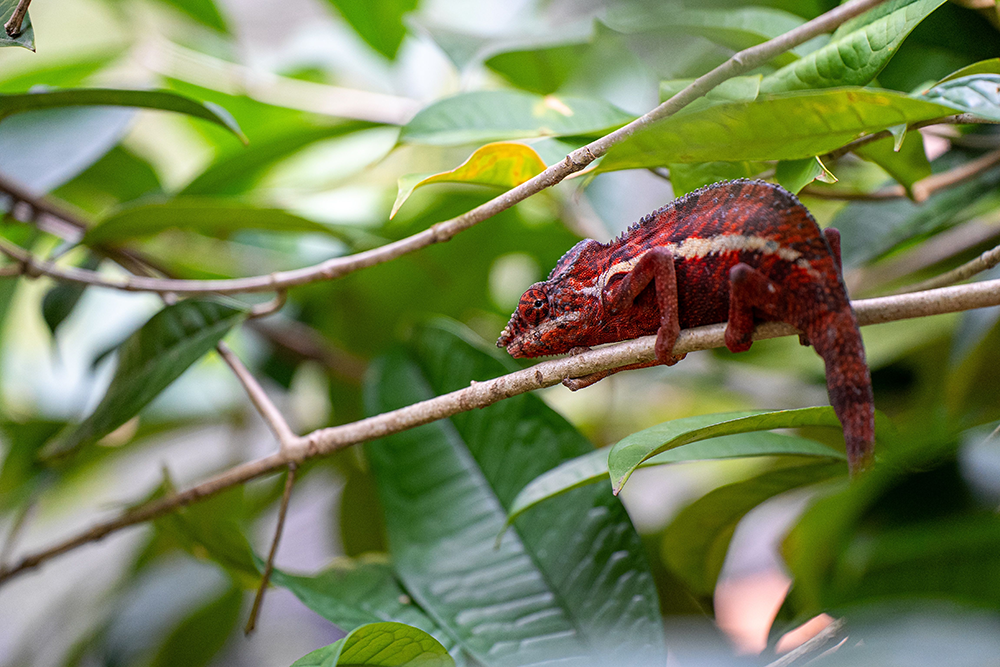
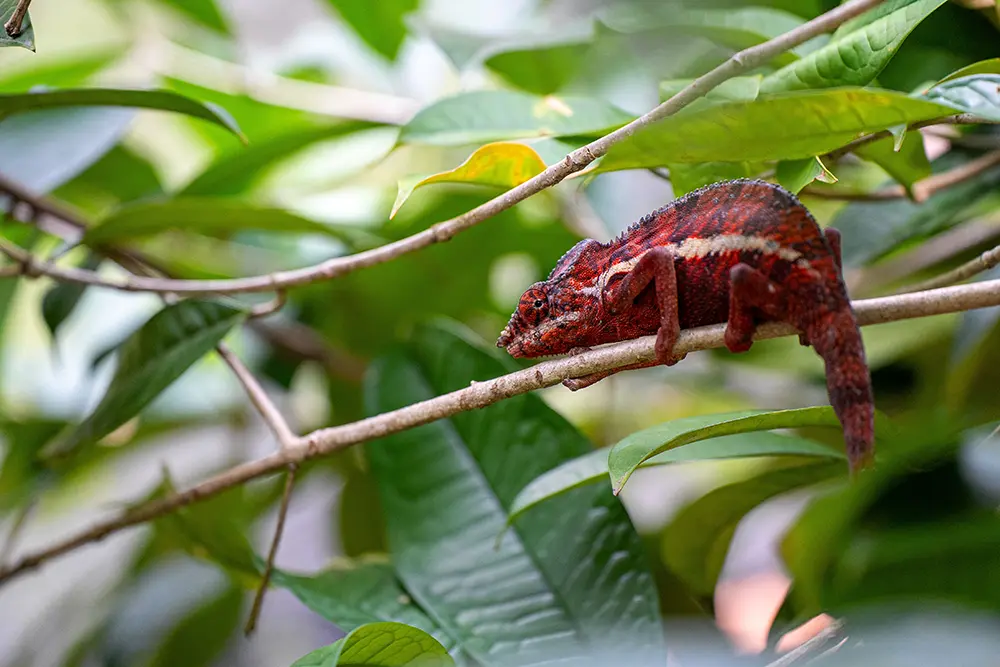
images updates

Changed region(s): [[0.527, 0.3598, 0.651, 0.5397], [0.682, 0.2699, 0.713, 0.2999], [0.651, 0.3298, 0.682, 0.3598]]

diff --git a/styles/place-large.css b/styles/place-large.css
@@ -1,33 +1,82 @@
-@media screen and (min-width: 700px) {
+@media screen and (min-width: 768px) {
 
+    /* 1. Make the main container relative so cards can be positioned over the hero */
     main {
+        position: relative;
+        max-width: 1200px;
+        margin: 0 auto;
+    }
+
+    .hero img {
+        width: 100%;
+        height: auto;
+        display: block;
+    }
+
+    /* 2. Shared Card Styling (Translucent White + Drop Shadow) */
+    .card {
+        position: absolute;
+        background-color: rgba(255, 255, 255, 0.85);
+        padding: 1.5rem;
+        box-shadow: 0 4px 12px rgba(0, 0, 0, 0.3);
+        width: 280px;
+    }
+
+    /* 3. Card Placement: Top-Left for Data, Bottom-Right for Weather */
+    .data-card {
+        top: 2rem;
+        left: 2rem;
+    }
+
+    .weather-card {
+        bottom: 2rem;
+        right: 2rem;
+    }
+
+    /* 4. Offset Green Banner Headings */
+    .card h2 {
+        background-color: #157347;
+        /* Madagascar flag green */
+        color: #ffffff;
+        padding: 0.75rem 1.25rem;
+        margin-left: -2.25rem;
+        /* Pulls the green box out past the left edge of the card */
+        margin-top: -0.5rem;
+        margin-bottom: 1rem;
+        text-align: left;
+        font-size: 1.5rem;
+    }
+
+    /* 5. Weather Icon Emoticon via Pseudo-element (WDD 131 Requirement) */
+    .weather-icon-svg {
+        display: none;
+        /* Hide mobile SVG icon on desktop */
+    }
+
+    .weather-card h2::after {
+        content: " ⛅";
+        margin-left: 0.5rem;
+    }
+
+    /* 6. Two-Column Grid for Data & Weather Lists */
+    .card dl,
+    .card ul {
         display: grid;
         grid-template-columns: 1fr 1fr;
-        gap: 1.5rem;
+        gap: 0.4rem 0.6rem;
+        font-size: 0.9rem;
     }
 
-    .hero {
-        grid-column: 1 / 3;
+    /* Right-align labels, left-align values */
+    .card dt,
+    .label {
+        text-align: right;
+        font-weight: 700;
     }
 
-    section {
+    .card dd,
+    .value {
+        text-align: left;
         margin: 0;
     }
-
-    header h1 {
-        font-size: 2.5rem;
-    }
-
-}
-
-@media screen and (min-width: 1000px) {
-
-    main {
-        grid-template-columns: 2fr 1fr 1fr;
-    }
-
-    .hero {
-        grid-column: 1 / 4;
-    }
-
 }

diff --git a/styles/place.css b/styles/place.css
@@ -9,7 +9,7 @@
 :root {
     --primary-color: #d21033;
     --secondary-color: #00784a;
-    --accent-color: #f2ede5;
+    --accent-color: #b1b0ae;
     --text-color: #030303;
     --bg-color: #ffffff;
 }
@@ -55,7 +55,9 @@ section {
 /* Section Headings */
 h2 {
     margin-bottom: 1rem;
-    color: var(--primary-color);
+    color: var(--bg-color);
+    background: var(--secondary-color);
+    padding: 0.5rem;
 }
 
 /* Heading Decoration */
